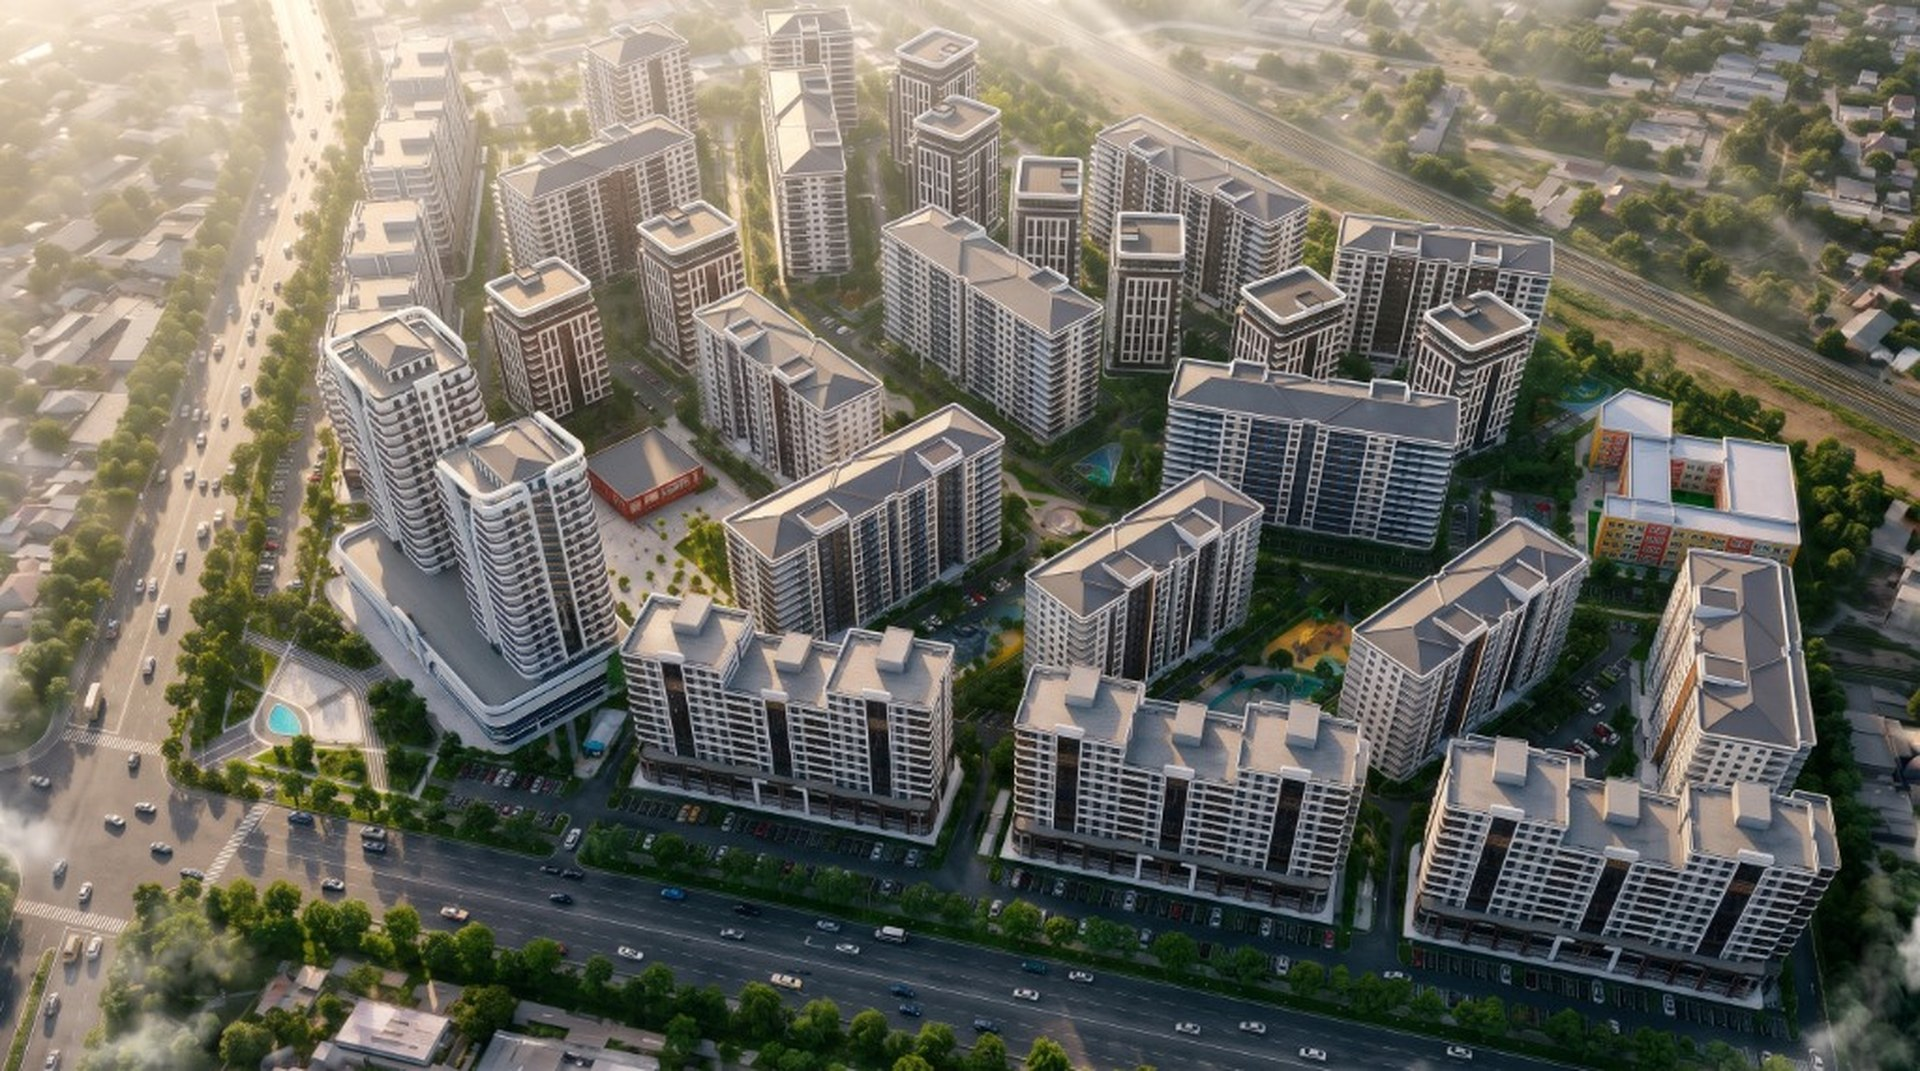
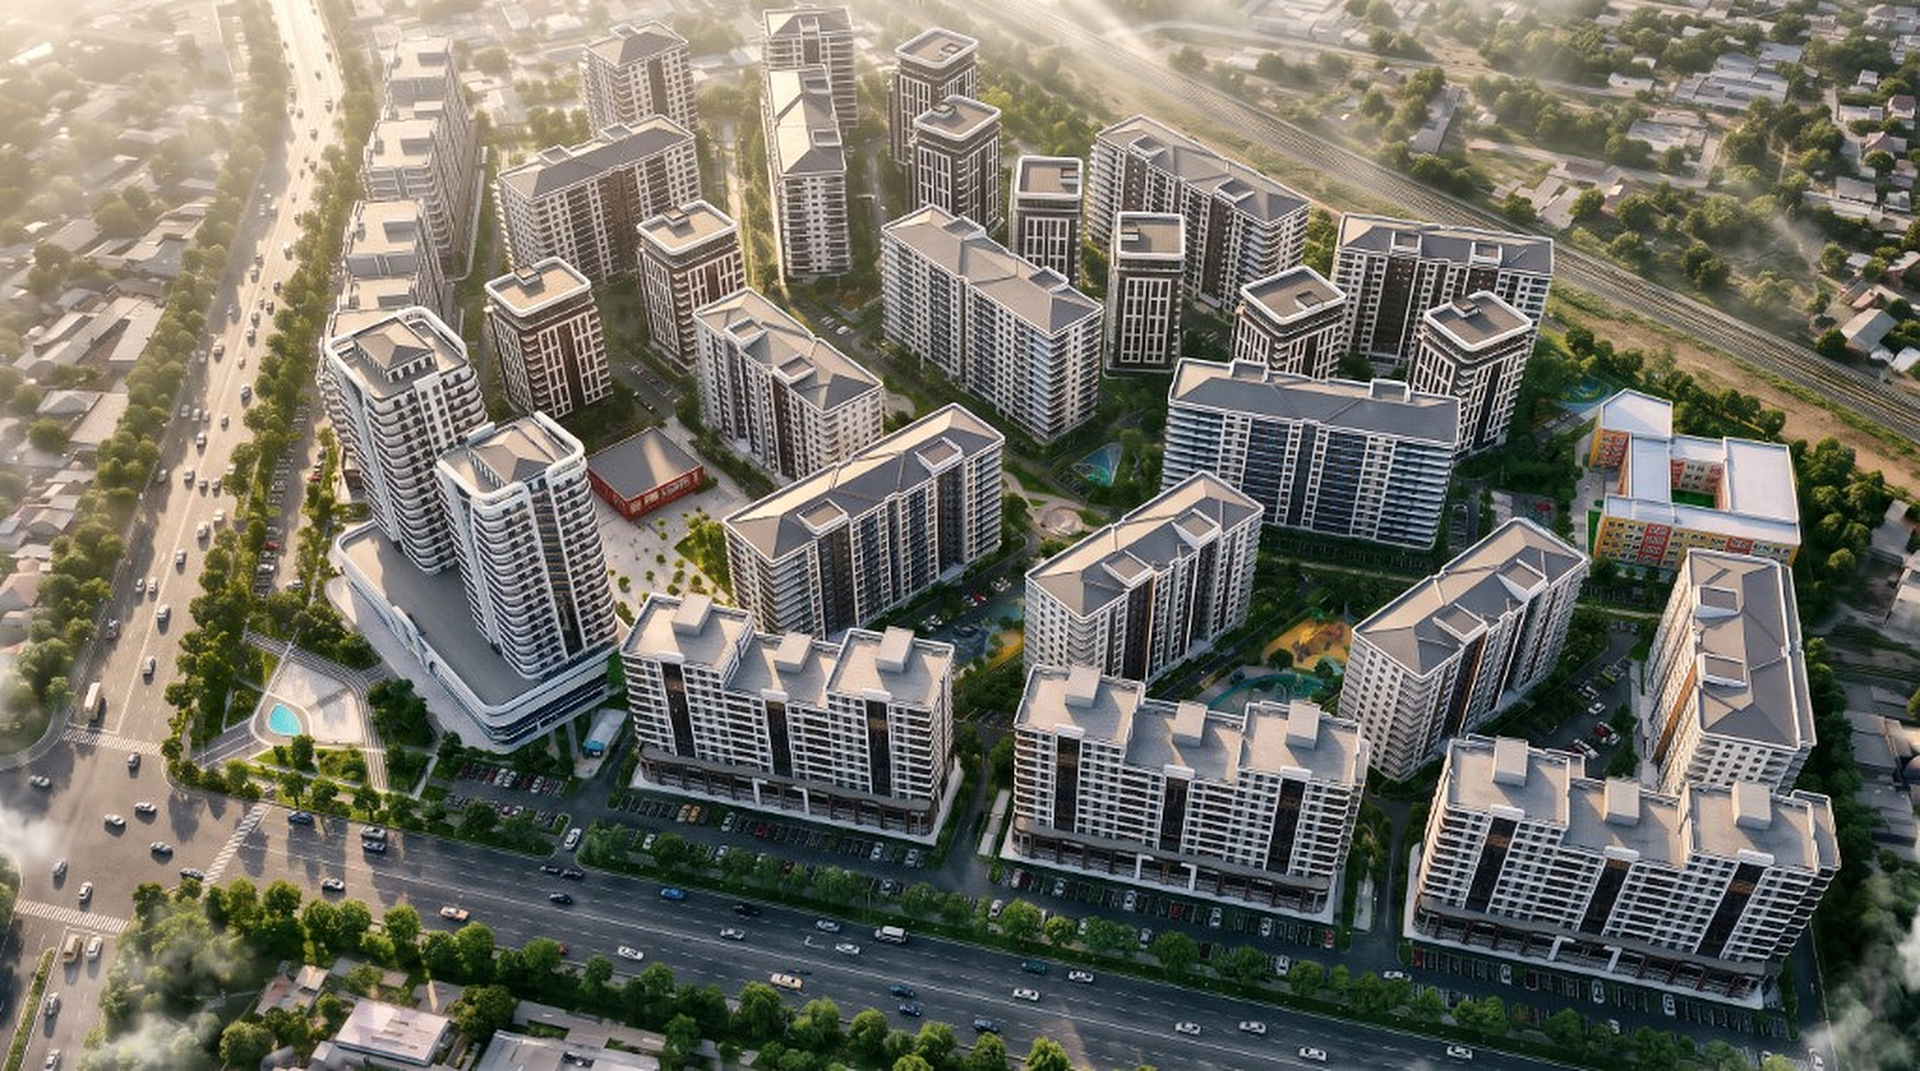
Use ultra-crisp 16:9 faded-edge masterplan band on mobile hero

diff --git a/css/style.css b/css/style.css
@@ -138,40 +138,18 @@ body {
 }
 
 /* ==========================================================================
-   HERO SECTION — MOBILE DEFAULT (< 920px) WITH REAL VERTICAL MASTERPLAN (IMAGE 6)
+   HERO SECTION — MOBILE (< 920px): PURE WHITE TOP + CRISP 16:9 BAND + SPEAKER
    ========================================================================== */
 .hero {
   position: relative;
-  padding: 80px 16px 18px;
+  padding: 78px 16px 18px;
   overflow: hidden;
-  background: #f5faf7;
+  background: var(--white);
 }
 
-/* Mobile Masterplan Background (Image 6) — positioned so full aerial complex is clearly visible */
+/* Desktop full-bleed background hidden on mobile so mobile uses uncropped 16:9 band */
 .hero__masterplan-bg {
-  position: absolute;
-  inset: 0;
-  background-image: url('../assets/hero-mobile.jpg');
-  background-size: cover;
-  background-position: center 46%;
-  z-index: 1;
-}
-
-/* Gentle top readability veil for headline + clean white fade only at very bottom */
-.hero__masterplan-bg::before {
-  content: "";
-  position: absolute;
-  inset: 0;
-  background:
-    linear-gradient(
-      180deg,
-      rgba(255, 255, 255, 0.93) 0%,
-      rgba(255, 255, 255, 0.85) 23%,
-      rgba(255, 255, 255, 0.16) 40%,
-      rgba(255, 255, 255, 0.04) 70%,
-      rgba(255, 255, 255, 0.88) 89%,
-      #ffffff 100%
-    );
+  display: none;
 }
 
 .hero__container {
@@ -197,8 +175,7 @@ body {
   letter-spacing: 0.01em;
   text-transform: uppercase;
   color: var(--text-main);
-  text-shadow: 0 2px 14px rgba(255, 255, 255, 0.95);
-  margin: 0 auto 6px;
+  margin: 0 auto 4px;
   max-width: 450px;
 }
 
@@ -206,23 +183,70 @@ body {
   color: #087a42;
 }
 
-/* Give breathing room above speaker so aerial buildings behind/around him shine clearly */
+/* Mobile Visual Stage matching user's exact 16:9 faded-edge composition */
 .hero__visual {
   position: relative;
-  margin-top: 64px;
+  margin-top: 4px;
+}
+
+.hero__scene {
+  position: relative;
+  margin: 0 -16px;
+  padding-top: 10px;
+  display: flex;
+  flex-direction: column;
+  align-items: center;
+}
+
+/* Full 16:9 horizontal masterplan band — zero side cropping, 100% crisp center, soft top/bottom white fade */
+.hero__mobile-bg-img {
+  position: absolute;
+  top: 0;
+  left: 50%;
+  transform: translateX(-50%);
+  width: 108%;
+  max-width: 620px;
+  height: auto;
+  aspect-ratio: 16 / 9.6;
+  object-fit: cover;
+  object-position: center 46%;
+  -webkit-mask-image: linear-gradient(
+    180deg,
+    transparent 0%,
+    rgba(0, 0, 0, 0.65) 11%,
+    #000000 22%,
+    #000000 78%,
+    rgba(0, 0, 0, 0.55) 90%,
+    transparent 100%
+  );
+  mask-image: linear-gradient(
+    180deg,
+    transparent 0%,
+    rgba(0, 0, 0, 0.65) 11%,
+    #000000 22%,
+    #000000 78%,
+    rgba(0, 0, 0, 0.55) 90%,
+    transparent 100%
+  );
+  z-index: 1;
+  pointer-events: none;
+  user-select: none;
 }
 
 .hero__speaker-wrap {
+  position: relative;
+  z-index: 2;
   display: flex;
   justify-content: center;
   align-items: flex-end;
+  padding-top: 26px;
 }
 
 .hero__speaker {
-  width: min(64%, 268px);
+  width: min(58%, 242px);
   height: auto;
   display: block;
-  filter: drop-shadow(0 14px 28px rgba(5, 32, 18, 0.34));
+  filter: drop-shadow(0 12px 24px rgba(5, 32, 18, 0.28));
   user-select: none;
   pointer-events: none;
 }
@@ -494,28 +518,43 @@ body {
 
   /* PC Wide Masterplan Background (Image 5) */
   .hero__masterplan-bg {
+    display: block;
+    position: absolute;
+    inset: 0;
+    z-index: 1;
     background-image: url('../assets/hero-pc.jpg');
     background-size: cover;
     background-position: 65% center;
   }
 
-  /* Left frosted readability zone while keeping right/center complex vividly clear */
   .hero__masterplan-bg::before {
+    content: "";
+    position: absolute;
+    inset: 0;
     background:
       linear-gradient(
         90deg,
         rgba(255, 255, 255, 0.96) 0%,
-        rgba(255, 255, 255, 0.91) 34%,
-        rgba(255, 255, 255, 0.36) 54%,
-        rgba(255, 255, 255, 0.03) 76%
+        rgba(255, 255, 255, 0.90) 33%,
+        rgba(255, 255, 255, 0.30) 52%,
+        rgba(255, 255, 255, 0.02) 74%
       ),
       linear-gradient(
         180deg,
-        rgba(255, 255, 255, 0.45) 0%,
-        rgba(255, 255, 255, 0) 20%,
-        rgba(255, 255, 255, 0) 82%,
+        rgba(255, 255, 255, 0.40) 0%,
+        rgba(255, 255, 255, 0) 18%,
+        rgba(255, 255, 255, 0) 84%,
         #ffffff 100%
       );
+  }
+
+  .hero__mobile-bg-img {
+    display: none;
+  }
+
+  .hero__scene {
+    margin: 0;
+    padding-top: 0;
   }
 
   .hero__container {
@@ -608,6 +647,7 @@ body {
   }
 
   .hero__speaker-wrap {
+    padding-top: 0;
     align-items: flex-end;
   }
 

diff --git a/index.html b/index.html
@@ -86,17 +86,27 @@
           </div>
         </div>
 
-        <!-- Right / Bottom Visual Stage (Speaker Cutout over Visible Masterplan) -->
+        <!-- Right / Bottom Visual Stage (16:9 Crisp Masterplan Band + Centered Speaker on Mobile) -->
         <div class="hero__visual">
-          <div class="hero__speaker-wrap">
+          <div class="hero__scene">
             <img
-              src="assets/speaker.png"
-              alt="Yangi Sho‘rchi loyiha spikeri"
-              class="hero__speaker"
-              width="520"
-              height="680"
+              src="assets/hero-pc.jpg"
+              alt="Yangi Sho‘rchi 13 gektarli loyiha umumiy ko‘rinishi"
+              class="hero__mobile-bg-img"
+              width="1920"
+              height="1071"
               fetchpriority="high"
             />
+            <div class="hero__speaker-wrap">
+              <img
+                src="assets/speaker.png"
+                alt="Yangi Sho‘rchi loyiha spikeri"
+                class="hero__speaker"
+                width="613"
+                height="900"
+                fetchpriority="high"
+              />
+            </div>
           </div>
 
           <!-- Mobile CTA overlapping bottom of speaker (visible on Mobile < 920px) -->
